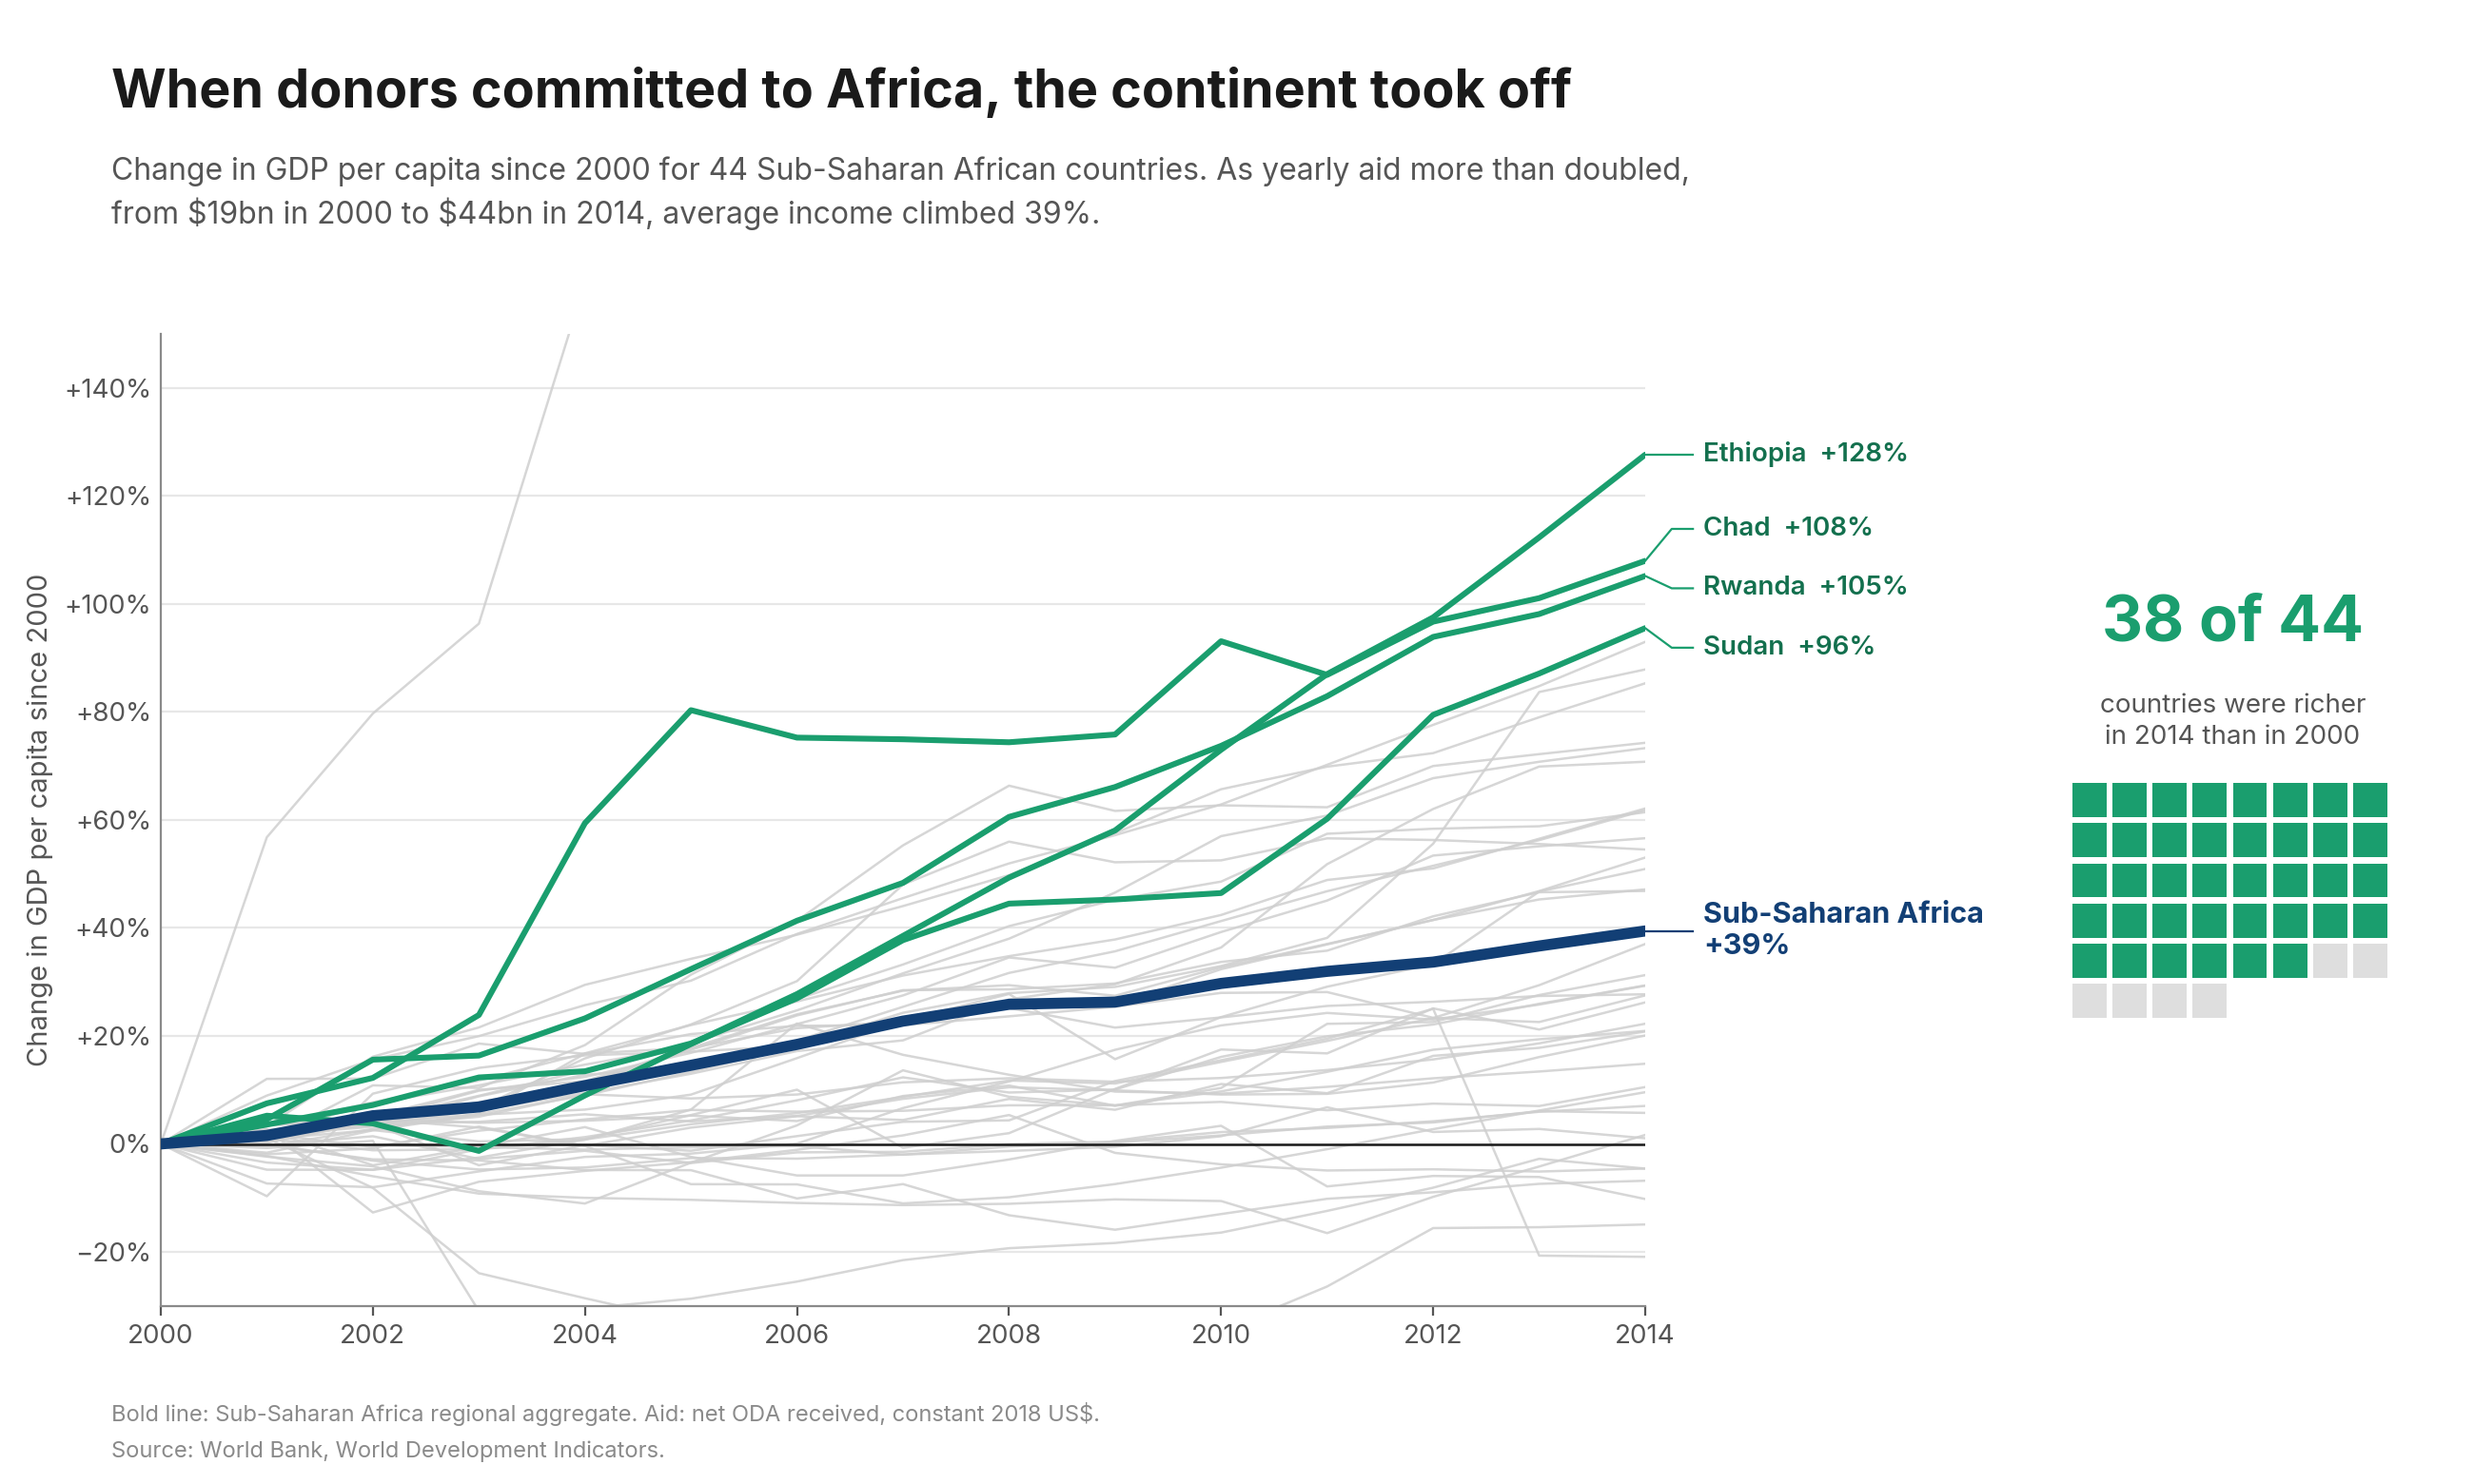
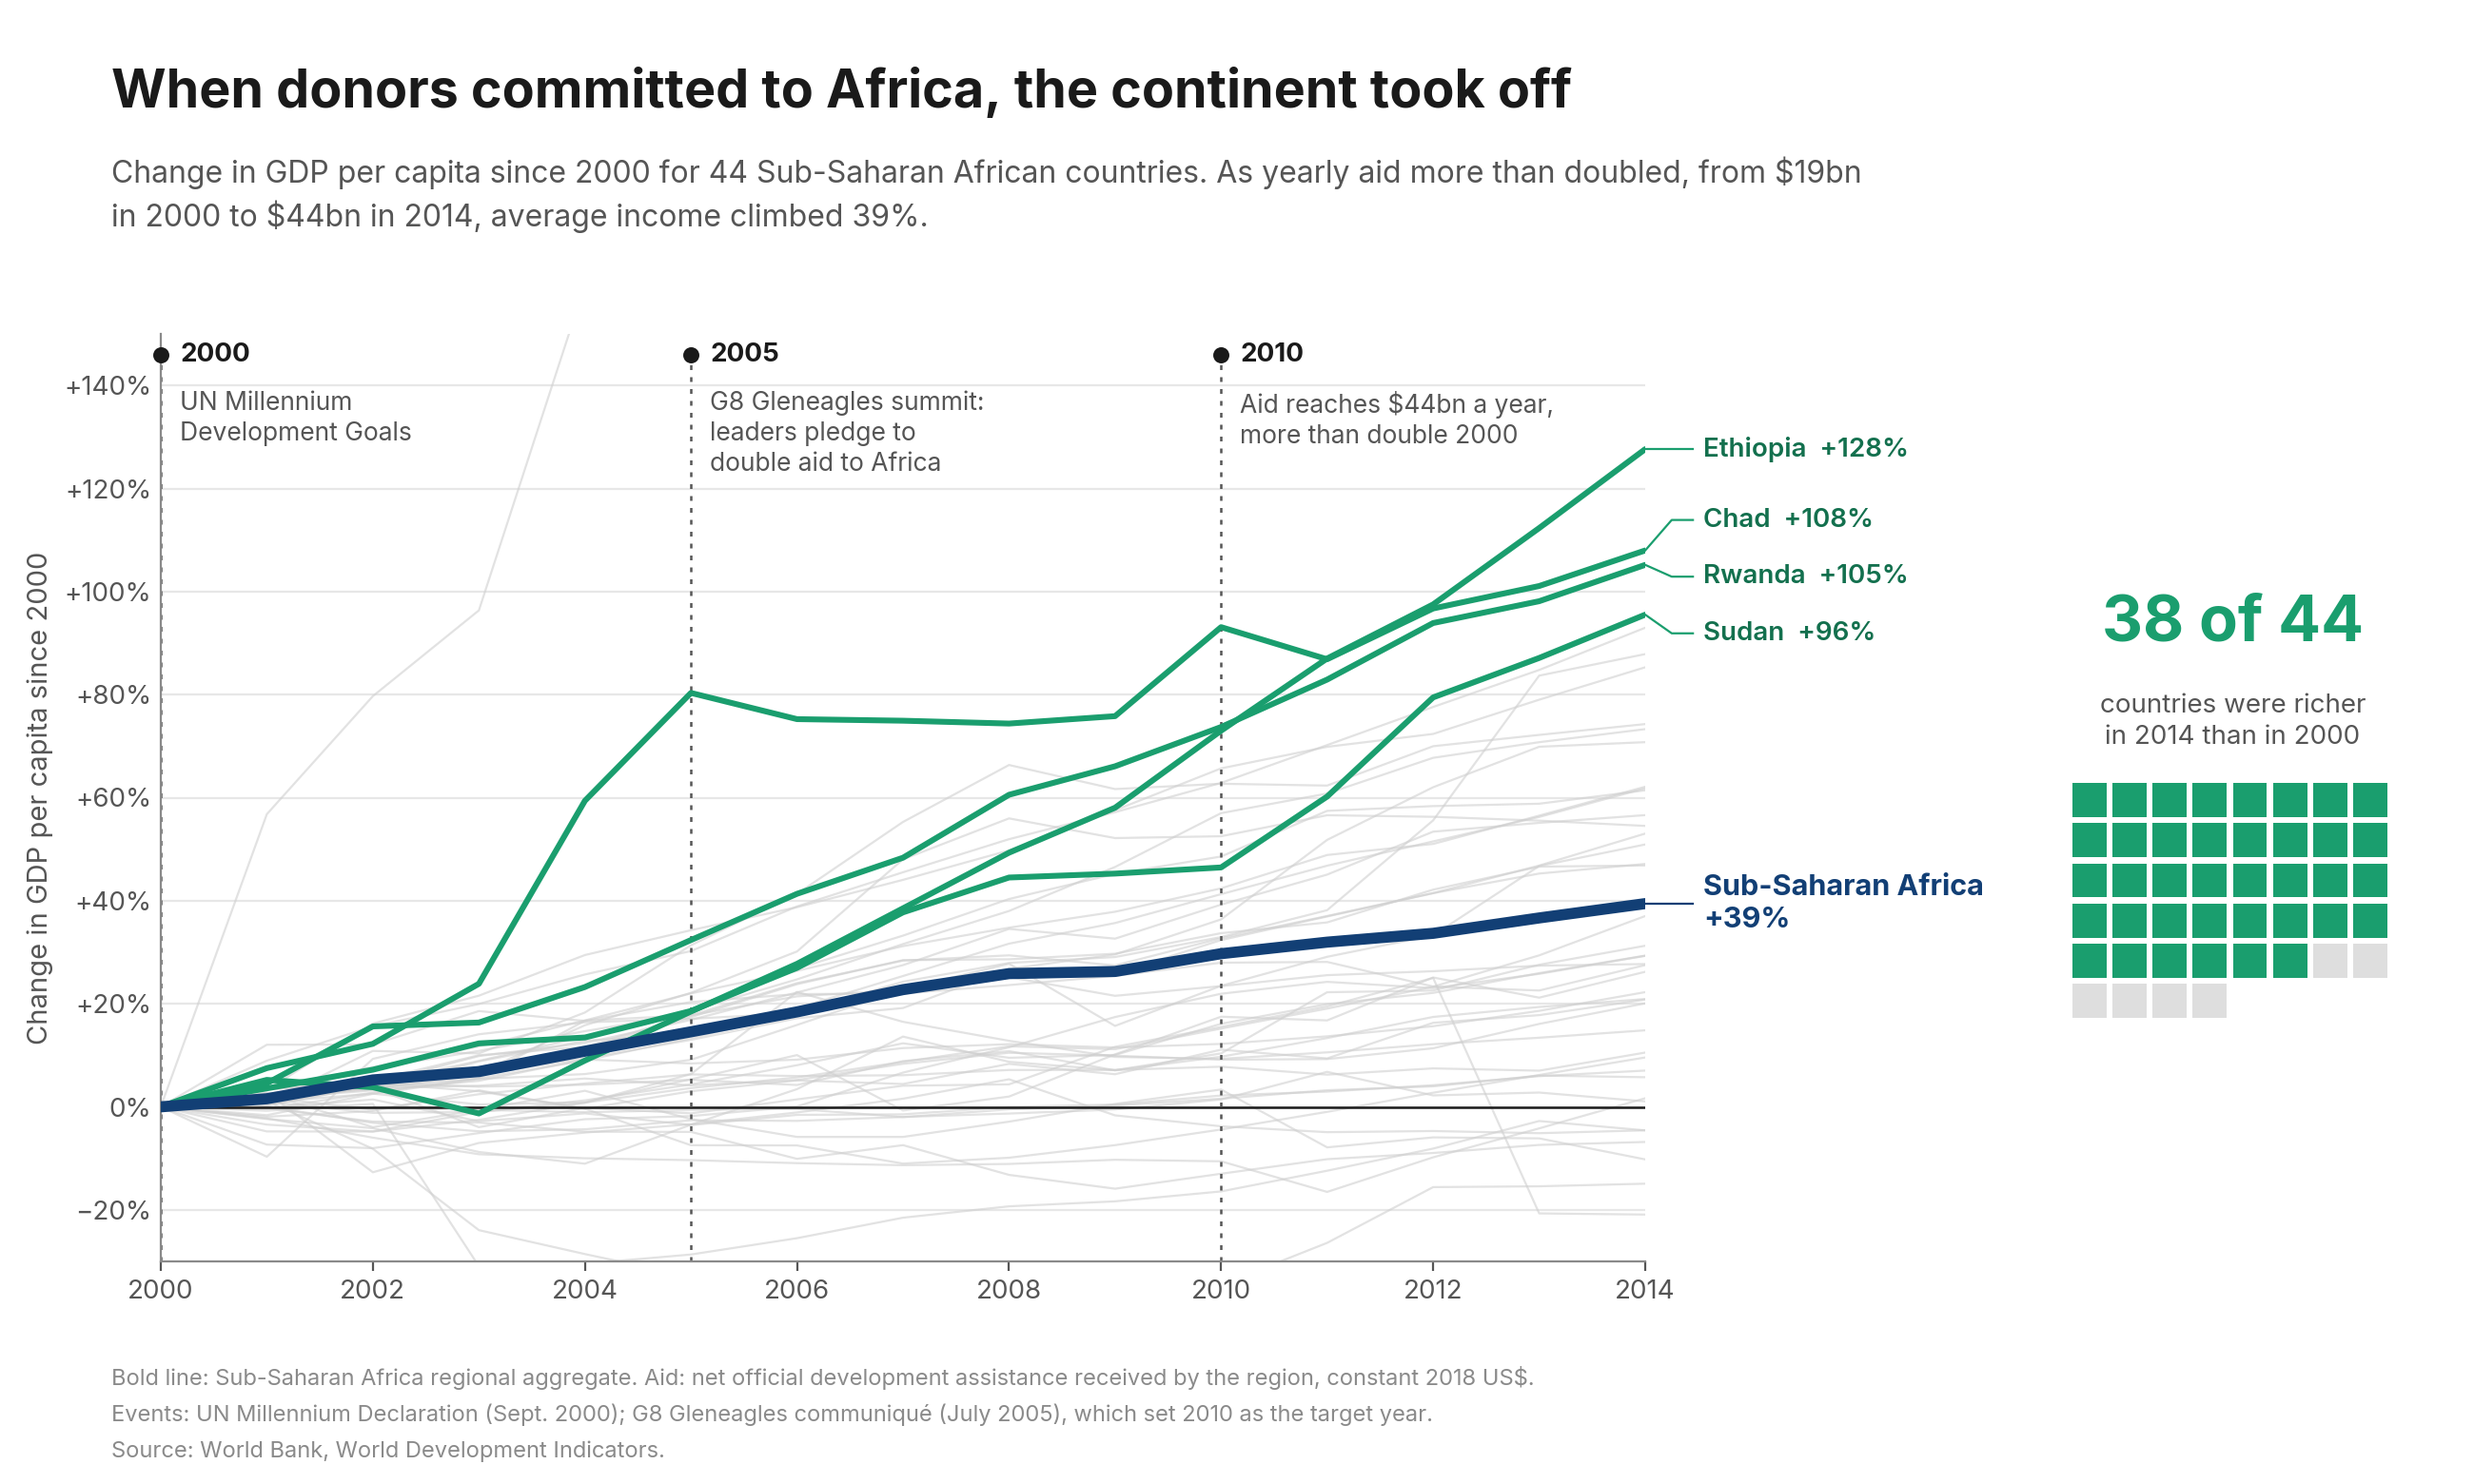
edited more stuff

diff --git a/index.html b/index.html
@@ -1,6 +1,8 @@
 <!doctype html>
 <html lang="en">
     <head>
+        <meta charset="utf-8" />
+        <meta name="viewport" content="width=device-width, initial-scale=1" />
         <title>Project 2 Report</title>
         <style>
             :root {
@@ -146,6 +148,39 @@
                     }
                 }
             }
+
+            /* Design-decision scores */
+
+            .score {
+                display: inline-block;
+                min-width: 2.6em;
+                padding: 0.05em 0.4em;
+                margin-right: 0.4em;
+                border-radius: 0.3em;
+                font-weight: 700;
+                font-size: 85%;
+                text-align: center;
+                font-variant-numeric: tabular-nums;
+            }
+
+            .score.neg {
+                color: #7a0c1e;
+                background: #f9e1e4;
+            }
+
+            .score.pos {
+                color: #123f75;
+                background: #e1ecf9;
+            }
+
+            .legend {
+                color: var(--color-neutral-40);
+                font-size: 90%;
+            }
+
+            ul.decisions > li + li {
+                margin-top: 0.8em;
+            }
         </style>
     </head>
 
@@ -160,25 +195,47 @@
         </header>
 
         <main>
-            <h2>Proposition: Foreign aid does stimulate growth for countries.</h2>
+            <h2>Proposition: Foreign aid has stimulated economic growth in Sub-Saharan Africa.</h2>
+
+            <p>
+                <strong>Data.</strong> World Bank World Development Indicators, 1960–2020: GDP per capita (constant 2010 US$),
+                net official development assistance (ODA) received in constant 2018 US$ and as a share of gross national income
+                (GNI), the poverty headcount ratio at $1.90 a day (2011 PPP), and total population. The FOR chart follows 44
+                Sub-Saharan African countries through time; the AGAINST chart counts the region's people living in extreme
+                poverty. Event dates come from the UN Millennium Declaration (September 2000) and the G8 Gleneagles communiqué
+                (July 2005).
+            </p>
+
+            <p class="legend">
+                Scores run from <span class="score neg">−2</span> fully deceptive to <span class="score pos">+2</span> fully earnest.
+            </p>
 
             <section>
                 <h3>FOR the Proposition</h3>
 
                 <figure>
-                    <img src="CON_3_africa_takeoff.png" alt="" />
-                    <figcaption>BRIEF CAPTION HERE.</figcaption>
+                    <img src="CON_3_africa_takeoff.png" alt="Line chart of GDP per capita change since 2000 for 44 Sub-Saharan African countries, 2000 to 2014, with markers for the 2000 Millennium Development Goals, the 2005 G8 pledge to double aid to Africa, and 2010, when aid passed double its 2000 level. Most lines rise; the regional average climbs 39%, and 38 of 44 countries were richer in 2014." />
+                    <figcaption>Change in GDP per capita since 2000 for 44 Sub-Saharan African countries, 2000–2014. Gray lines are individual countries, the four fastest growers are in green, and the bold line is the regional aggregate. Dotted lines mark aid milestones. Aid figures: net ODA received by the region, constant 2018 US$. Source: World Bank, World Development Indicators.</figcaption>
                 </figure>
 
                 <p>Design Decisions and Rationale:</p>
 
-                <ul>
-                    <li>Used a specific continent where aid significantly helped.</li>
-                    <li>Emphasized certain countries that further prove our point by coloring them in</li>
-                    <li>Used green for the color which is usually associated with something good happening</li>
-                    <li>Grayed out other countries that do not really support our claim as much as the colored lines</li>
-                    <li>Cherry-picked time window, 2000 was the bottom of a slump, while 2014 is when the country most prospered</li>
-                    <li>Clipped y-axis to hide two countries that collapsed even with the help of getting aid.</li>
+                <ul class="decisions">
+                    <li>
+                        <span class="score neg">−2</span>
+                        <strong>Time window: 2000 to 2014.</strong>
+                        Initially, we decided to use the full timeline of 1990-2019. However, the increase was a lot more ambiguous as the 1990s decline flattened the graph, which makes our proposition less credible. We then decided to make 2000 our starting year because it lines up with the Millenium Development Goals and is the bottom of a 25-year slump. This makes the starting year seem more natural than just cherry-picking.
+                    </li>
+                    <li>
+                        <span class="score pos">+1.5</span>
+                        <strong>Indexing all 44 countries to their 2000 level and drawing every one.</strong>
+                        Our graphic puts all economies onto a similar starting scale by indexing them all to their economic level in 2000. Drawing every line allows the reader to see all of the data that went into the trend line and makes it transparent how we selected which to highlight. It shows the reader that the data is not cherry picked to an extreme extent, and helps them believe that the data applies to more than just the highlighted countries.
+                    </li>
+                    <li>
+                        <span class="score neg">−0.5</span>
+                        <strong>Marking dates of aid-pledging events.</strong>
+                        Our graphic highlights specific dates and events where richer nations pledge aid to Sub-Saharan Africa. These work as our form of proof that aid is what is driving the economic growth shown in the graph. This also leaves out plenty of context, which is what makes it lean deceptive. These markings make no indication of how much aid is pledged, or to which programs or specific countries they were pledged too. It is possible that the growth is unrelated to these specific events.
+                    </li>
                 </ul>
             </section>
 
@@ -186,25 +243,34 @@
                 <h3>AGAINST the Proposition</h3>
 
                 <figure>
-                    <img src="IMAGE_FILENAME" alt="" />
-                    <figcaption>BRIEF CAPTION HERE.</figcaption>
+                    <img src="PRO_9_trillion_more_poor.png" alt="Pictogram comparing people in extreme poverty in Sub-Saharan Africa: 281 million in 1990 and 436 million in 2018, each figure representing 10 million people, with the 155 million added since 1990 in red. Side panels: $987 billion in aid received from 1990 to 2018, and income per person growing 0.9% a year." />
+                    <figcaption>People in Sub-Saharan Africa living on less than $1.90 a day (2011 PPP), 1990 and 2018; one figure = 10 million people. Counts are the World Bank regional poverty headcount ratio multiplied by total population. Aid: net ODA received by the region, constant 2018 US$, summed 1990–2018. Source: World Bank, World Development Indicators.</figcaption>
                 </figure>
 
                 <p>Design Decisions and Rationale:</p>
 
-                <ul>
-                    <li>RATIONALE_1</li>
-                    <li>RATIONALE_2</li>
-                    <li>RATIONALE_3</li>
+                <ul class="decisions">
+                    <li>
+                        <span class="score neg">−2</span>
+                        <strong>Counting people instead of showing the poverty rate.</strong>
+                        Our graphic counts the raw number of people living in poverty, instead of showing the rate as you would expect. This completely disregards the fact that the poverty rate has actually decreased by around 15% during this time period. The raw number creates the idea that the poverty problem has gotten worse, when by most metrics it has not. This is the most deceptive part of the graph, but I wouldn't say it is obviously noticeable to the reader.
+                    </li>
+                    <li>
+                        <span class="score neg">−1.5</span>
+                        <strong>Aid as a 29-year total, rounded up in the headline.</strong>
+                        The total aid received in Sub-Saharan Africa is $987 billion. This was calculated by adding up every year of aid from 1990 to 2018. Per person, it averages about $44 a year, roughly 12 cents a day, set against a poverty line of $1.90 a day. But by rounding the aid amount up to a trillion, instead of in billions, it creates a bigger impact on the reader. We initially chose to use per person, but the statistic was a small amount compared to the cumulative, which could undermine the amount of aid given.
+                    </li>
+                    <li>
+                        <span class="score neg">−1.5</span>
+                        <strong>Switching the outcome from growth to poverty.</strong>
+                        The original proposition is about growth, and is argued through GDP in the first graphic. The rebuttal in this graphic switches the focus onto the poverty rate, which is more compelling and has more drastic data, but is deceptive. Picking and choosing which data to use is a form of deception that is common, but not quite earnest.
+                    </li>
                 </ul>
             </section>
 
             <section>
                 <h2>Final Reflection</h2>
-
-                <p>[WRITE FINAL REFLECTION PARAGRAPHS HERE.]</p>
             </section>
         </main>
-    <script type="module" src="https://static.cloudflareinsights.com/beacon.min.js/vce701823e78c4301a35b7e07294d87301792088814092" integrity="sha512-UKNk8GbxkABxKcXYuLkO16EleLGUkcvJWtpSNmExE0Too3ZaFAxTscNWEc1OdAv5/BikHawapSCaiD2XCmp+Bw==" data-cf-beacon='{"version":"2024.11.0","token":"c822b88e119346678db149ed7b7721c9","r":1,"spa":2}' crossorigin="anonymous"></script>
-</body>
+    </body>
 </html>
